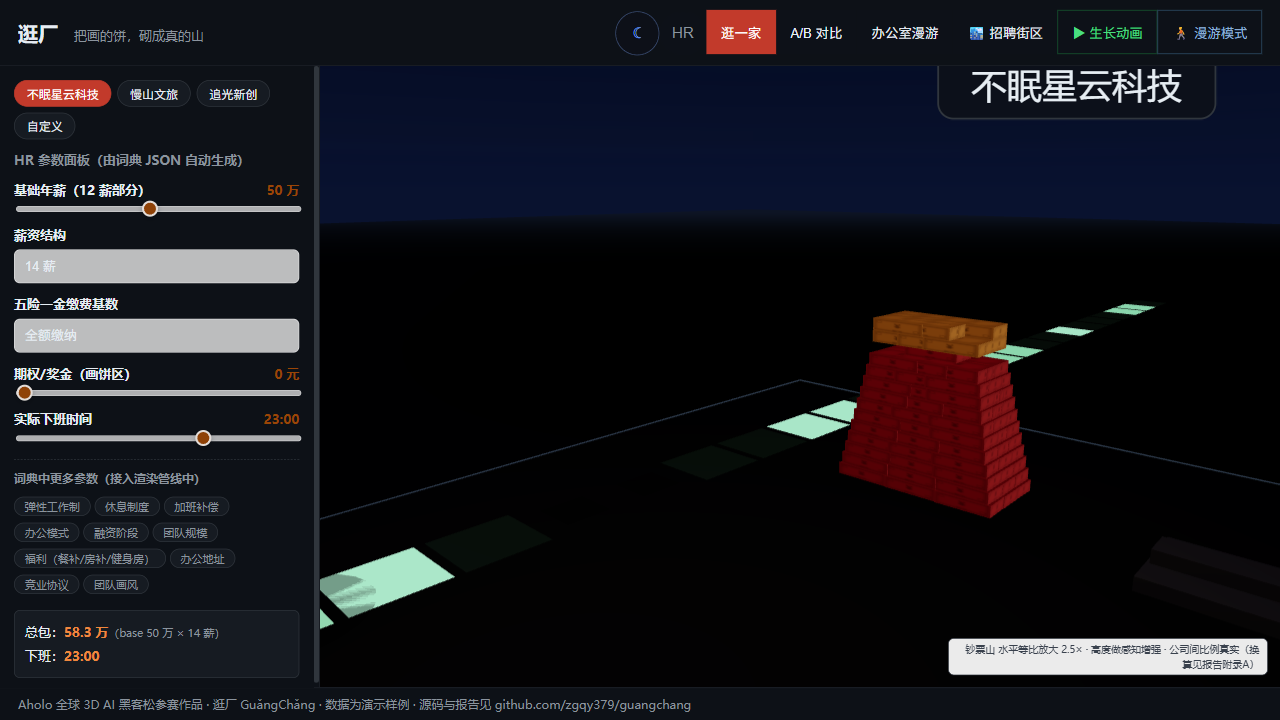
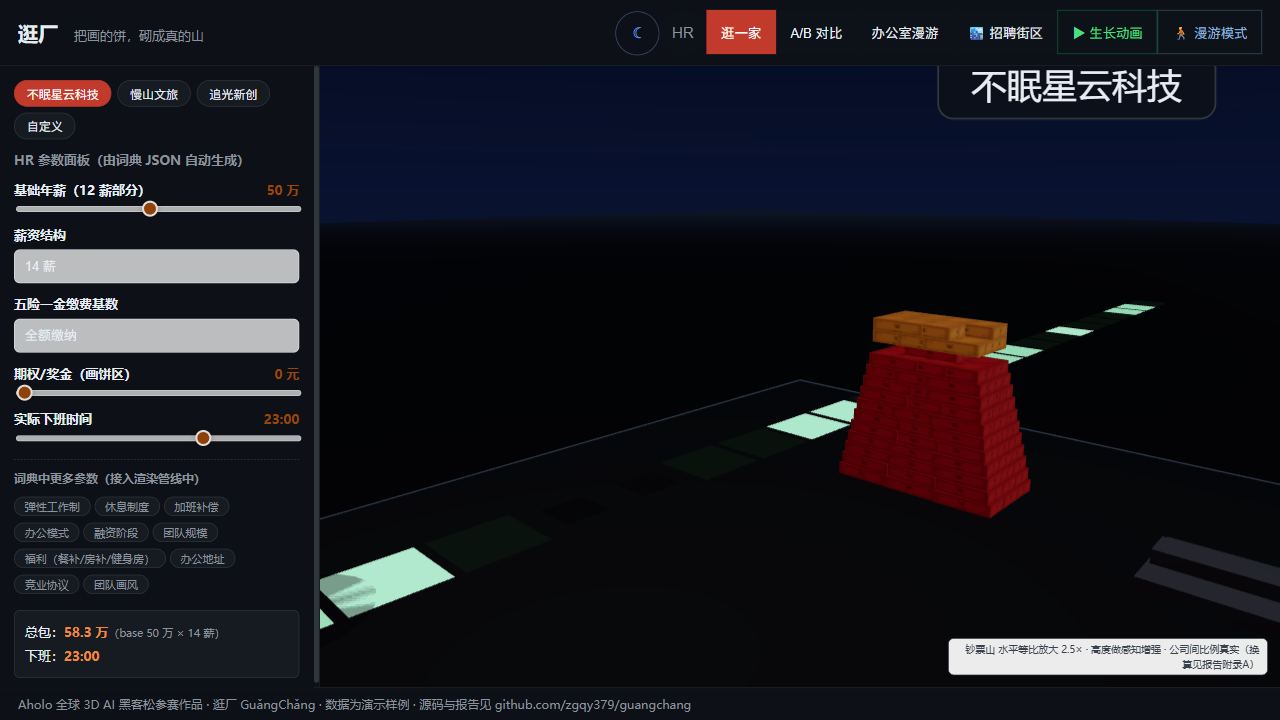
feat(street): R5/R6——focus 白幕根因修复（无贴图白方块阴影面）+ 玻璃三层昼夜配方 + 斑马线距离淡出 + 阴影二次烘焙 + 铭牌移除 + 单厂日夜双地板（六轮盲审：视觉 7.0 平台 / 空间 7.25-7.5）

Changed region(s): [[0.875, 0.7333, 1.0, 0.8556], [0.6875, 0.4278, 0.7812, 0.5194]]

diff --git a/web/src/components/street/StreetScene.tsx b/web/src/components/street/StreetScene.tsx
@@ -128,21 +128,9 @@ function Roads({ theme }: { theme: ThemeName }) {
           blending={THREE.AdditiveBlending}
         />
       </mesh>
-      {/* 中央斑马线（收窄至 0.5m，尺度校正） */}
-      {[0, Math.PI / 2].map((rot, i) => (
-        <group key={`z${i}`} rotation={[0, rot, 0]}>
-          {[-6.4, -5.8, -5.2, 5.2, 5.8, 6.4].map((z) => (
-            <mesh key={z} rotation={[-Math.PI / 2, 0, 0]} position={[z, 0.005, 0]}>
-              <planeGeometry args={[0.5, 9.6]} />
-              <meshStandardMaterial
-                color={night ? '#c8d2da' : '#ffffff'}
-                opacity={night ? 0.55 : 0.75}
-                transparent
-              />
-            </mesh>
-          ))}
-        </group>
-      ))}
+      {/* 中央斑马线：近距离自动淡出——低机位下条纹以极大透视面盖住摊位与 HR
+          （盲审 R3/R4「focus 白幕」元凶）。远处保持寻路可见，近处淡出给特写让画面。 */}
+      <CrosswalkStripes night={night} />
       {/* 中央转盘基石 */}
       <mesh position={[0, 0.06, 0]} receiveShadow castShadow>
         <cylinderGeometry args={[3.4, 3.6, 0.12, 32]} />
@@ -671,6 +659,48 @@ function StreetLamps({ theme }: { theme: ThemeName }) {
         </instancedMesh>
       )}
     </>
+  )
+}
+
+// 中央斑马线（12 条，2 组正交）：按相机距离淡出的不透明度。
+// 6m 内淡至 12%（特写/近走不被条纹幕布盖脸），14m 外全值（鸟瞰/寻路可见）。
+function CrosswalkStripes({ night }: { night: boolean }) {
+  const mats = useRef<THREE.MeshBasicMaterial[]>([])
+  const stripes = useMemo(() => {
+    const arr: { pos: [number, number, number]; rot: number }[] = []
+    ;[0, Math.PI / 2].forEach((rot) => {
+      ;[-6.4, -5.8, -5.2, 5.2, 5.8, 6.4].forEach((z) => {
+        arr.push({ pos: rot === 0 ? [z, 0.005, 0] : [0, 0.005, z], rot })
+      })
+    })
+    return arr
+  }, [])
+  useFrame(({ camera }) => {
+    const base = night ? 0.55 : 0.75
+    mats.current.forEach((m, i) => {
+      if (!m) return
+      const s = stripes[i]
+      const d = Math.hypot(camera.position.x - s.pos[0], camera.position.z - s.pos[2])
+      m.opacity = base * THREE.MathUtils.clamp((d - 6) / 8, 0.12, 1)
+    })
+  })
+  return (
+    <group>
+      {stripes.map((s, i) => (
+        <mesh key={i} rotation={[-Math.PI / 2, 0, s.rot]} position={s.pos}>
+          <planeGeometry args={[0.5, 9.6]} />
+          <meshBasicMaterial
+            ref={(m) => {
+              if (m) mats.current[i] = m
+            }}
+            color={night ? '#c8d2da' : '#ffffff'}
+            transparent
+            opacity={night ? 0.55 : 0.75}
+            depthWrite={false}
+          />
+        </mesh>
+      ))}
+    </group>
   )
 }
 

diff --git a/web/src/components/candidate/CandidateBooth.tsx b/web/src/components/candidate/CandidateBooth.tsx
@@ -10,7 +10,6 @@
 //
 // 隐私三档：公开 / 仅 HR 可见 / 私密（私密件不渲染）
 import { useMemo } from 'react'
-import { Html } from '@react-three/drei'
 import { GlowPath } from '../GlowPath'
 import { SalaryCloud } from './SalaryCloud'
 import { WorkOrbit, type WorkItem } from './WorkOrbit'
@@ -106,21 +105,9 @@ export function CandidateBooth({
         </mesh>
       </group>
 
-      {/* ⚠ 必须用 drei <Html>：裸 <div> 在 Canvas 内会被 R3F 当 THREE intrinsic 校验直接抛错（T13）。
-          zIndex 必须压到 1：drei Html 默认 zIndex=16777271，会穿透 z-index 14 的导航面板（盲审 R2 短板②） */}
-      <Html position={[0, 1.95, 0]} center distanceFactor={10} zIndexRange={[10, 1]} style={{ pointerEvents: 'none' }}>
-        <div
-          style={{
-            color: night ? '#0b0e1a' : '#e8eef4',
-            fontSize: 12,
-            fontWeight: 600,
-            whiteSpace: 'nowrap',
-            textShadow: night ? '0 0 8px rgba(255,255,255,0.6)' : '0 0 8px rgba(0,0,0,0.6)',
-          }}
-        >
-          {`期望 ¥${Math.round(expectedSalary / 10000)}万 · ${publicWorks.length} 件作品`}
-        </div>
-      </Html>
+      {/* 入口铭牌已移除（盲审 R5 短板：世界空间标签在 4 张截图右缘裁切+穿透浮层，
+          且信息与 LotCard/面板重复）——less is more，期望薪资/作品数由名片承载。
+          教训保留：Canvas 内 DOM 必须走 drei <Html>（T13） */}
 
       {/* 求职者本体占位：头顶太阳/月亮（夜间月亮 / 白天太阳，与 HR 摊位顶灯语义一致） */}
       <mesh position={[0, 2.4, 0]}>

diff --git a/web/src/App.tsx b/web/src/App.tsx
@@ -45,7 +45,7 @@ const RoamCamera = lazy(() =>
 import { fictionalCompanies, companyById } from './data/fictional-companies'
 import { STREET_LOTS, type Lot } from './data/street-companies'
 import { assetUrl } from './engine/asset'
-import { ColorSceneHallFloor } from '../generated/design-tokens.output.mjs'
+import { ColorSceneHallFloor, ColorSceneHallFloorDay } from '../generated/design-tokens.output.mjs'
 import { ErrorBoundary, SceneErrorBoundary } from './state/ErrorBoundary'
 import { RoleGate, type Role } from './components/role/RoleGate'
 import { loadRole, saveRole, loadBasket, saveBasket } from './engine/progress'
@@ -132,10 +132,11 @@ function Scene({
       {/* lazy 3D 组件首次加载会挂起：Canvas 内必须有 Suspense，否则挂起冒泡到根、整树空白 */}
       <Suspense fallback={null}>
         <WorkdaySky envHour={envHour} theme={theme} />
-        {/* 大地板：让展台坐在"地面"上而非悬空，地砖路可延伸向远方（色入令牌 scene.hallFloor） */}
+        {/* 大地板：让展台坐在"地面"上而非悬空。日/夜双地板：夜间深（夜色氛围）、
+            日间浅（与浅色天幕/亮 UI 同带，消除「亮 UI+黑地」割裂——盲审 R6 短板①） */}
         <mesh rotation={[-Math.PI / 2, 0, 0]} position={[0, -0.02, 0]}>
           <planeGeometry args={[90, 90]} />
-          <meshStandardMaterial color={ColorSceneHallFloor} roughness={0.9} />
+          <meshStandardMaterial color={theme === 'dark' ? ColorSceneHallFloor : ColorSceneHallFloorDay} roughness={0.9} />
         </mesh>
         <CompanyPlot
           position={[0, 0, 0]}

diff --git a/web/src/components/street/BoothHardwareInstanced.tsx b/web/src/components/street/BoothHardwareInstanced.tsx
@@ -27,6 +27,7 @@ import type { Industry } from '../../data/street-companies'
 import type { ThemeName } from '../../engine/theme'
 import { ColorStateSuccess } from '../../../generated/design-tokens.output.mjs'
 import { applyLotJitter } from './OfficeFacadeInstanced'
+import { shadowTexture } from './HRStand'
 
 const tempObject = new THREE.Object3D()
 const tempColor = new THREE.Color()
@@ -297,7 +298,15 @@ export function BoothHardwareInstanced({
       {/* shadow */}
       <instancedMesh ref={shadowRef} args={[undefined, undefined, count]}>
         <planeGeometry args={[3.2, 3.2]} />
-        <meshBasicMaterial transparent opacity={night ? 0.9 : 0.45} depthWrite={false} />
+        {/* 柔边接触阴影：径向暗贴图（旧版无贴图=纯白方块，夜间 0.9 透明白板沿街堆叠成「白幕」，
+            盲审 R3/R4 的 focus 白幕元凶——2026-10-27 透明网格清单探针定位） */}
+        <meshBasicMaterial
+          map={shadowTexture()}
+          color="#0a0d12"
+          transparent
+          opacity={night ? 0.85 : 0.4}
+          depthWrite={false}
+        />
       </instancedMesh>
       {/* glow */}
       <instancedMesh ref={glowRef} args={[undefined, undefined, count]}>

diff --git a/web/src/components/street/OfficeFacadeInstanced.tsx b/web/src/components/street/OfficeFacadeInstanced.tsx
@@ -223,11 +223,17 @@ export function OfficeFacadeInstanced({
         <boxGeometry args={[6.66, 0.42, 5.44]} />
         <meshStandardMaterial />
       </instancedMesh>
-      {/* glass：底层玻璃幕墙 —— 白天降到 0.55：焦点机位前多层玻璃叠加会淹没 HR（盲审 B 短板 #1）
-          夜间保持 1.0（夜景靠这张反射室内暖光） */}
+      {/* glass：底层玻璃幕墙 —— 三层配方：白天低透明蓝灰（大堂退暗）＋夜间不透明暗玻璃（暖窗显出）。
+          夜间不再隐藏：白幕真凶是无贴图白方块阴影面（已修），暗玻璃走 ACES 后不再过曝，
+          且能托住雨棚立柱不悬浮（盲审 R5 短板②） */}
       <instancedMesh ref={glassRef} args={[undefined, undefined, count]}>
         <planeGeometry args={[5.8, 2.1]} />
-        <meshBasicMaterial transparent opacity={night ? 1 : 0.55} toneMapped={!night} />
+        <meshBasicMaterial
+          transparent
+          opacity={night ? 1 : 0.3}
+          color={night ? '#ffffff' : '#c2d3e0'}
+          toneMapped
+        />
       </instancedMesh>
       {/* led：门楣 LED */}
       <instancedMesh ref={ledRef} args={[undefined, undefined, count]}>

diff --git a/web/src/components/WorkdaySky.tsx b/web/src/components/WorkdaySky.tsx
@@ -281,6 +281,14 @@ function SunLight({
     // 实测省掉整个 shadow pass（约 200 个 draw call + 一张 2048² 深度图）。
     l.shadow.autoUpdate = false
     l.shadow.needsUpdate = true
+    // 懒加载建筑/HR 就位后阴影图需要二次烘焙：首帧烘焙时 lazy chunk 未挂载，
+    // 阴影图里没有建筑物 → 昼间全场景无投影、平板化（盲审 R5 短板①）。
+    // 场景静止（光源不动），二次烘焙后再关回 autoUpdate。
+    const rebake = window.setTimeout(() => {
+      l.shadow.needsUpdate = true
+      window.setTimeout(() => { l.shadow.needsUpdate = true; l.shadow.autoUpdate = false }, 2500)
+    }, 2500)
+    return () => window.clearTimeout(rebake)
   }, [sunPos])
   return (
     <directionalLight

diff --git a/docs/design/design-audit-2026-10-25.md b/docs/design/design-audit-2026-10-25.md
@@ -145,3 +145,25 @@
 4. **单厂模式空间叙事**：空场地板占 2/3——需要参数化道具群（刻度人偶/五险柱廊/期权云耦合）与地面内容设计。预计 1 天。
 
 **部署建议**：视觉连续两轮 7.0（门禁线上），按项目先例以「功能/视觉修复版」口径部署 gh-pages/魔搭是安全的；但**不应宣称通过设计门禁**。若冲刺 8+：先做清单第 1、2 项（覆盖评委第二屏与第一屏），复测后再部署。
+
+### R5/R6 复测（2026-10-27 深夜 · 呈报清单第 1 项「特写帧玻璃与曝光重构」落地后）
+
+**本轮实施**：① focus 白幕根因终判——透明网格全量清单探针（249 个）+ 隐藏二分：元凶 = **BoothHardware 阴影面无贴图**（64 块 3.2×3.2 纯白方块，夜 0.9 透视堆叠成白幕；白天压浅地面不明显故四轮未察觉）→ 挂径向暗贴图修复；② OfficeFacade 玻璃三层昼夜配方（昼 0.3 蓝灰 tint 大堂退暗 / 夜不透明暗玻璃走 ACES）；③ 中央斑马线距离感知淡出（6m 内 12%、14m 外全值——低机位透视白幕第二来源）；④ 夜玻璃一度隐藏验证白幕非玻璃后回归（暗贴图走 ACES）；⑤ 阴影贴图二次烘焙（懒加载建筑就位后 2.5s/5s 两次 needsUpdate，回应「昼间无投影」）；⑥ 删除 CandidateBooth 世界空间铭牌（R5：4 图右缘裁切+穿透，信息与名片重复）；⑦ 单厂日/夜双地板令牌（hallFloorDay #b9c2cc，消「亮 UI+黑地」割裂）；⑧ egolite 窗口最小化自愈（CDP normal + 宿主 ShowWindow）。
+
+| 评审（拆分制） | 视觉 | 空间/体验 |
+|---|---|---|
+| R5 街区昼/夜 8 图 | 7.0 | 7.5 |
+| R5 移动 6 + 单人 3 | 7.0 | 7.5 |
+| R6 街区昼/夜 8 图（R5 修复后） | 7.0 | 7.5 |
+| R6 移动 6 + 单人 3（地板修复前） | 6.0 | 6.5 |
+
+**六轮总轨迹**：视觉 7.5/6.5 → 7.0/7.0 → 6.5 → 7.0 → 7.0/6.0；空间 7.5/7.0 → 7.0/7.5 → 7.5 → 7.5/6.5。**结论：视觉稳定在 7.0 平台、空间稳定在 7.25–7.5；agent 的参数/材质/构图微调已到收敛上限，9 分（乃至稳定的 8 分）需要设计决策级的美术轮次。**
+
+**R5/R6 共同指向的剩余清单（呈报主理人，建议交美术判断轮次执行）**：
+1. 昼间光照与材质密度：天空纯白无层次、大平面无纹理、屋顶空置（R6 短板①，阴影二次烘焙后投影仍偏弱，需 TA 级光照配方）
+2. 街道纵深道具：左半幅空旷路面/无车辆路人（R6 短板②，InstancedMesh 预算内做行道树+车+路人）
+3. focus/deliver 机位与叙事：两帧近乎重复、投递时刻缺场景级反馈差异（R6 短板③，需机位设计与投递粒子强化）
+4. 单厂低值端空间叙事：低参数仍偏空（双地板已修割裂，仍需参数化道具群）
+5. HR 待机姿态：双臂平展似 T-pose 的观感（AvatarActor idle 动画选型）
+
+**验证状态**：typecheck/构建/对比度/面板墨色全绿；全部 17 张终版截图由 egolite 管线产出（窗口最小化自愈：CDP normal + 宿主 ShowWindow，见 tools/restore-ego2.ps1 与 shoot-ego-street.mjs 内建自愈）。
